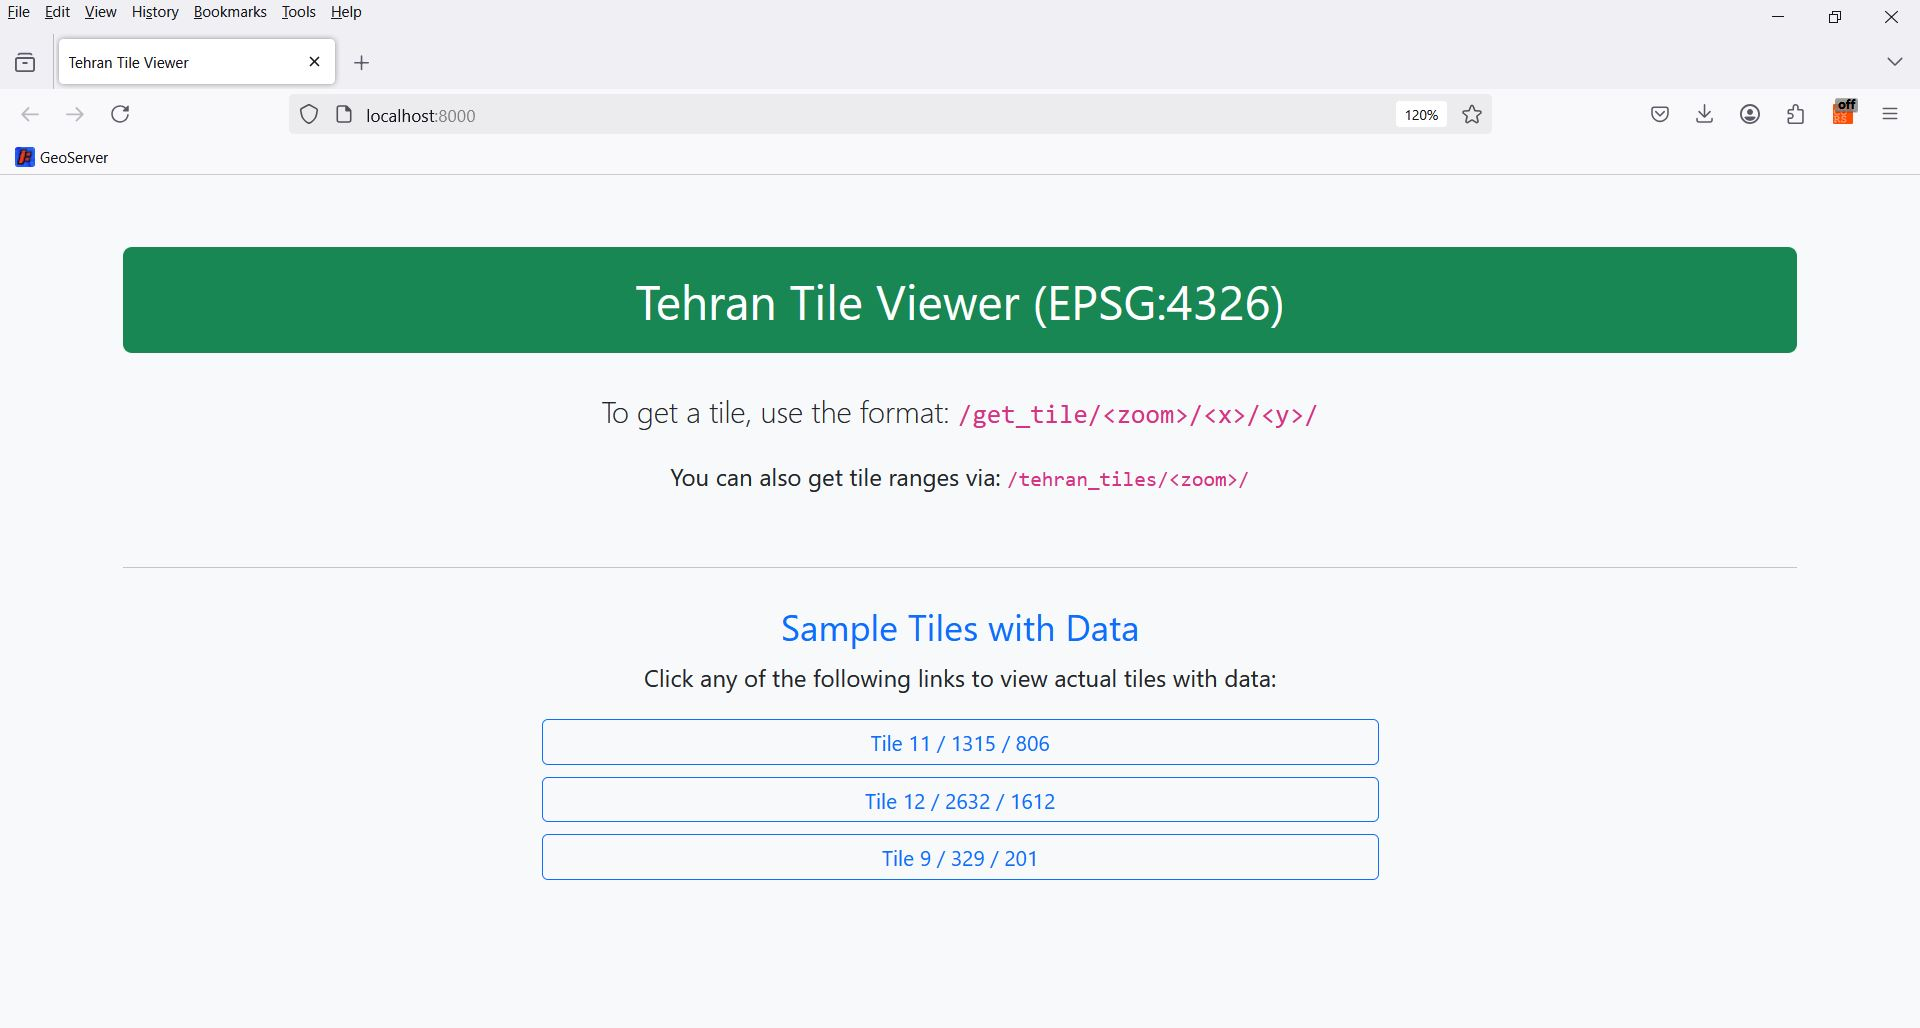
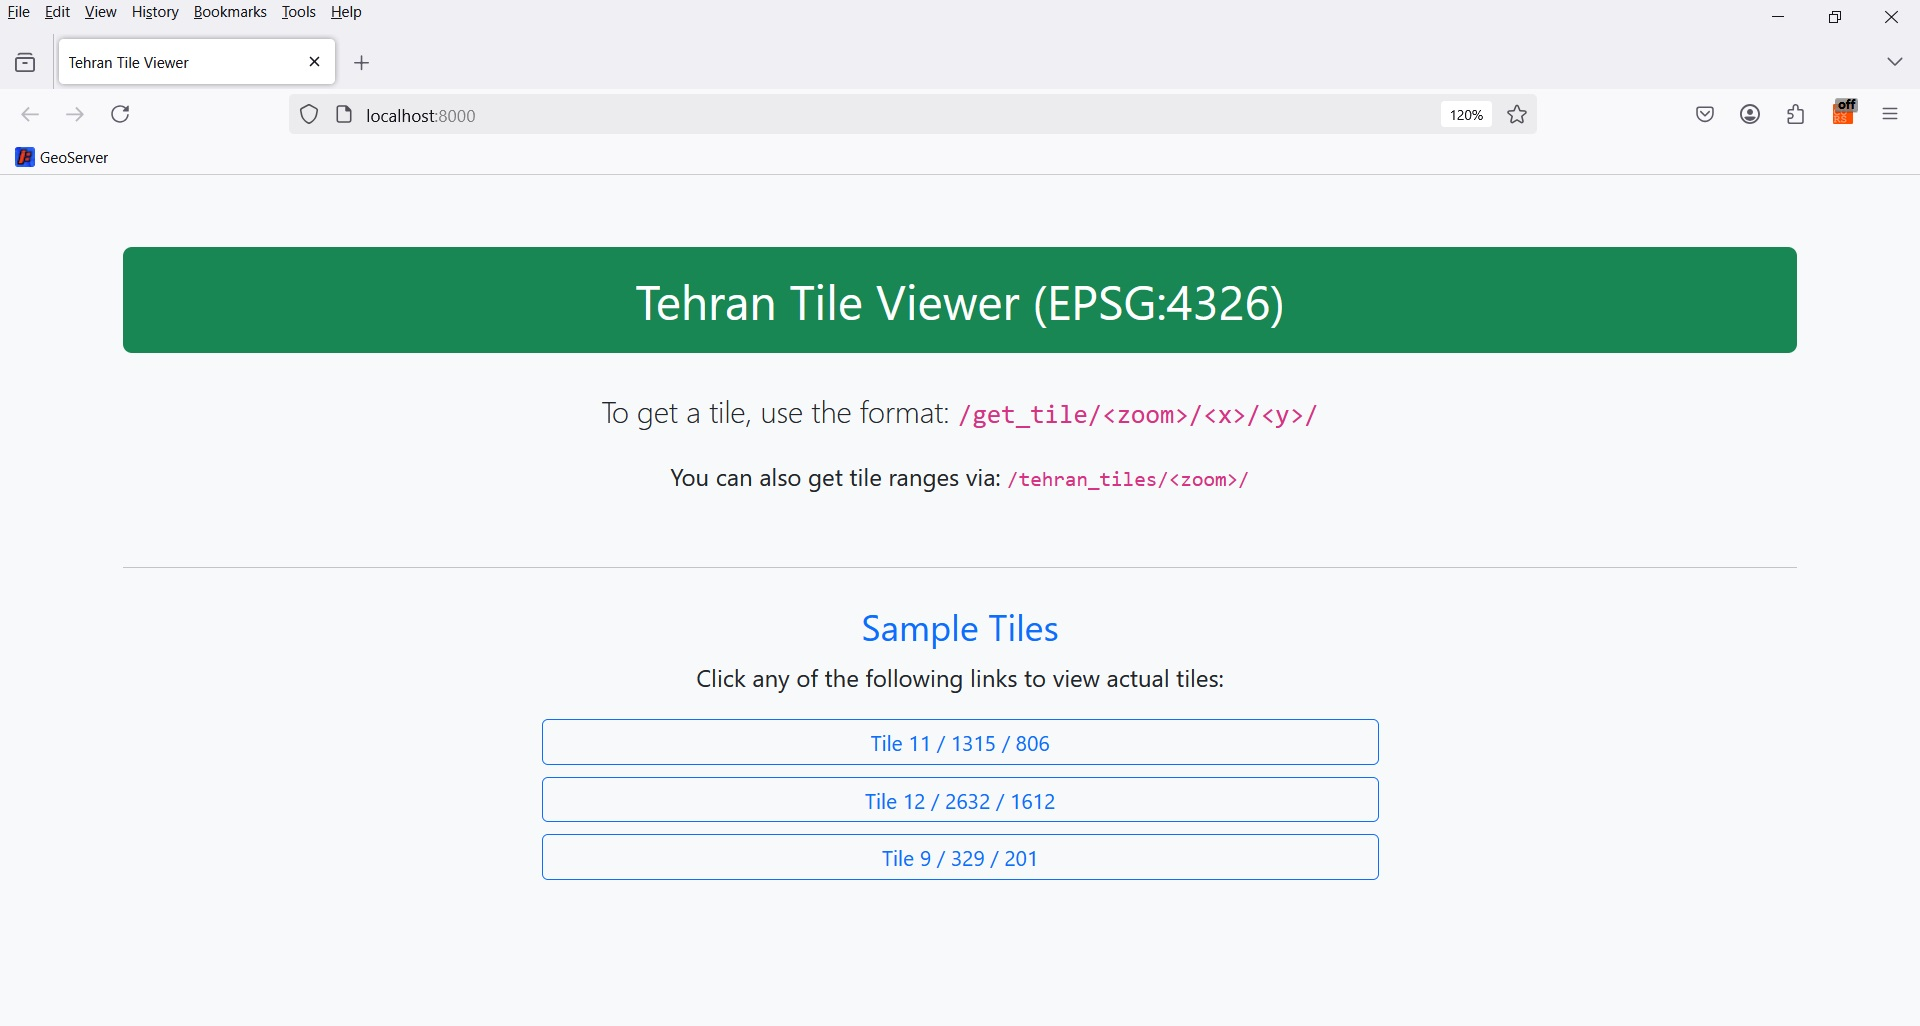
'project08edited'

diff --git a/Project08_TileAPI/GeoTile_WebAPI/GeoTile_API/templates/GeoTile_API/index.html b/Project08_TileAPI/GeoTile_WebAPI/GeoTile_API/templates/GeoTile_API/index.html
@@ -14,8 +14,8 @@
     <p>You can also get tile ranges via: <code>/tehran_tiles/&lt;zoom&gt;/</code></p>
 
     <hr class="mt-5">
-    <h4 class="text-primary mt-4">Sample Tiles with Data</h4>
-    <p>Click any of the following links to view actual tiles with data:</p>
+    <h4 class="text-primary mt-4">Sample Tiles</h4>
+    <p>Click any of the following links to view actual tiles:</p>
 
     <div class="d-flex flex-column align-items-center gap-2">
         <a href="/get_tile/11/1315/806/" class="btn btn-outline-primary btn-sm w-50" target="_blank">Tile 11 / 1315 / 806</a>
